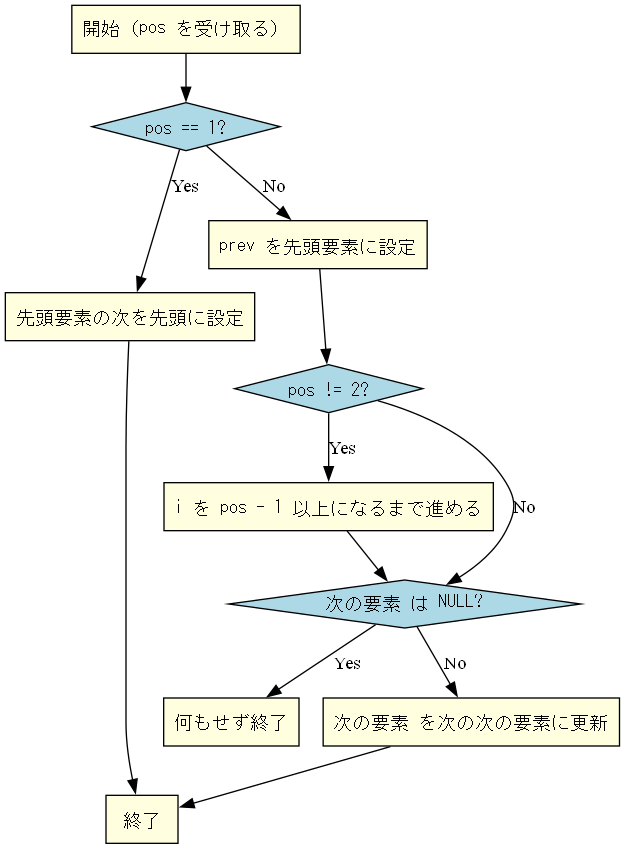
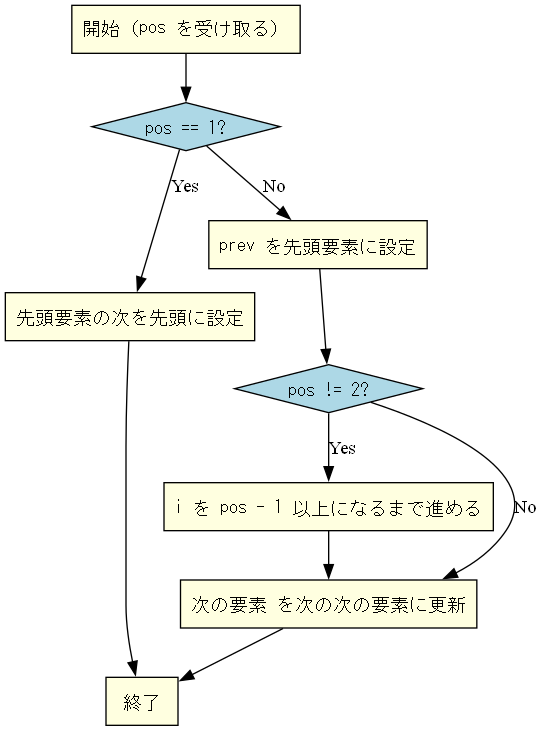
Q10 フロー図修正

Changed region(s): [[0.0, 0.0, 1.0, 1.0], [0.2362, 0.2408, 0.2657, 0.301], [0.8561, 0.6019, 0.8856, 0.632]]

diff --git a/sample_20221226/Q.10/プログラムフロー図/gen_graph_Q10.py b/sample_20221226/Q.10/プログラムフロー図/gen_graph_Q10.py
@@ -10,8 +10,6 @@ dot.node('setHead', '先頭要素の次を先頭に設定')
 dot.node('setPrev', 'prev を先頭要素に設定')
 dot.node('check2', 'pos != 2?', shape='diamond', fillcolor='lightblue')
 dot.node('loop', 'i を pos - 1 以上になるまで進める')
-dot.node('nullCheck', '次の要素 は NULL?', shape='diamond', fillcolor='lightblue')
-dot.node('return', '何もせず終了')
 dot.node('del', '次の要素 を次の次の要素に更新')
 dot.node('end', '終了')
 
@@ -21,10 +19,8 @@ dot.edge('setHead', 'end')
 dot.edge('check1', 'setPrev', label='No')
 dot.edge('setPrev', 'check2')
 dot.edge('check2', 'loop', label='Yes')
-dot.edge('loop', 'nullCheck')
-dot.edge('check2', 'nullCheck', label='No')
-dot.edge('nullCheck', 'return', label='Yes')
-dot.edge('nullCheck', 'del', label='No')
+dot.edge('loop', 'del')
+dot.edge('check2', 'del', label='No')
 dot.edge('del', 'end')
 
 dot.render('graph_Q10', view=True, cleanup=True)
